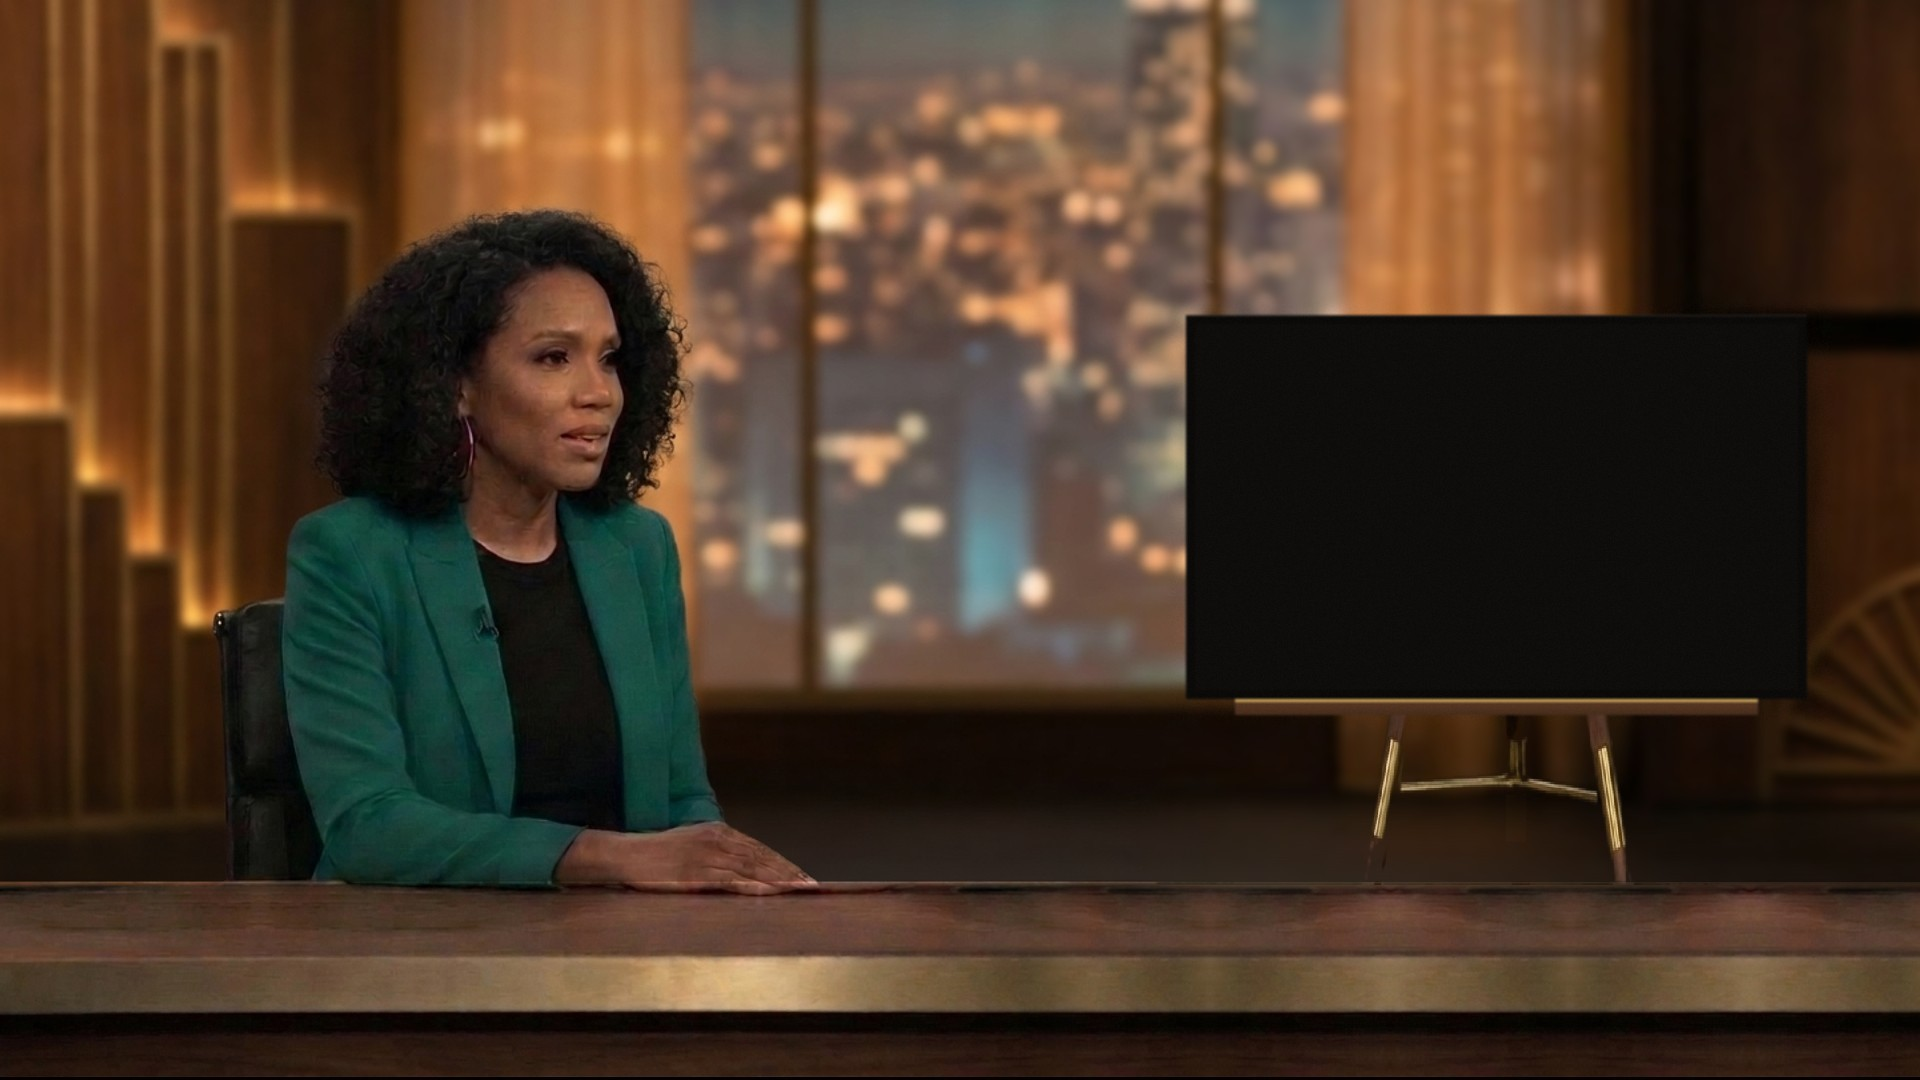
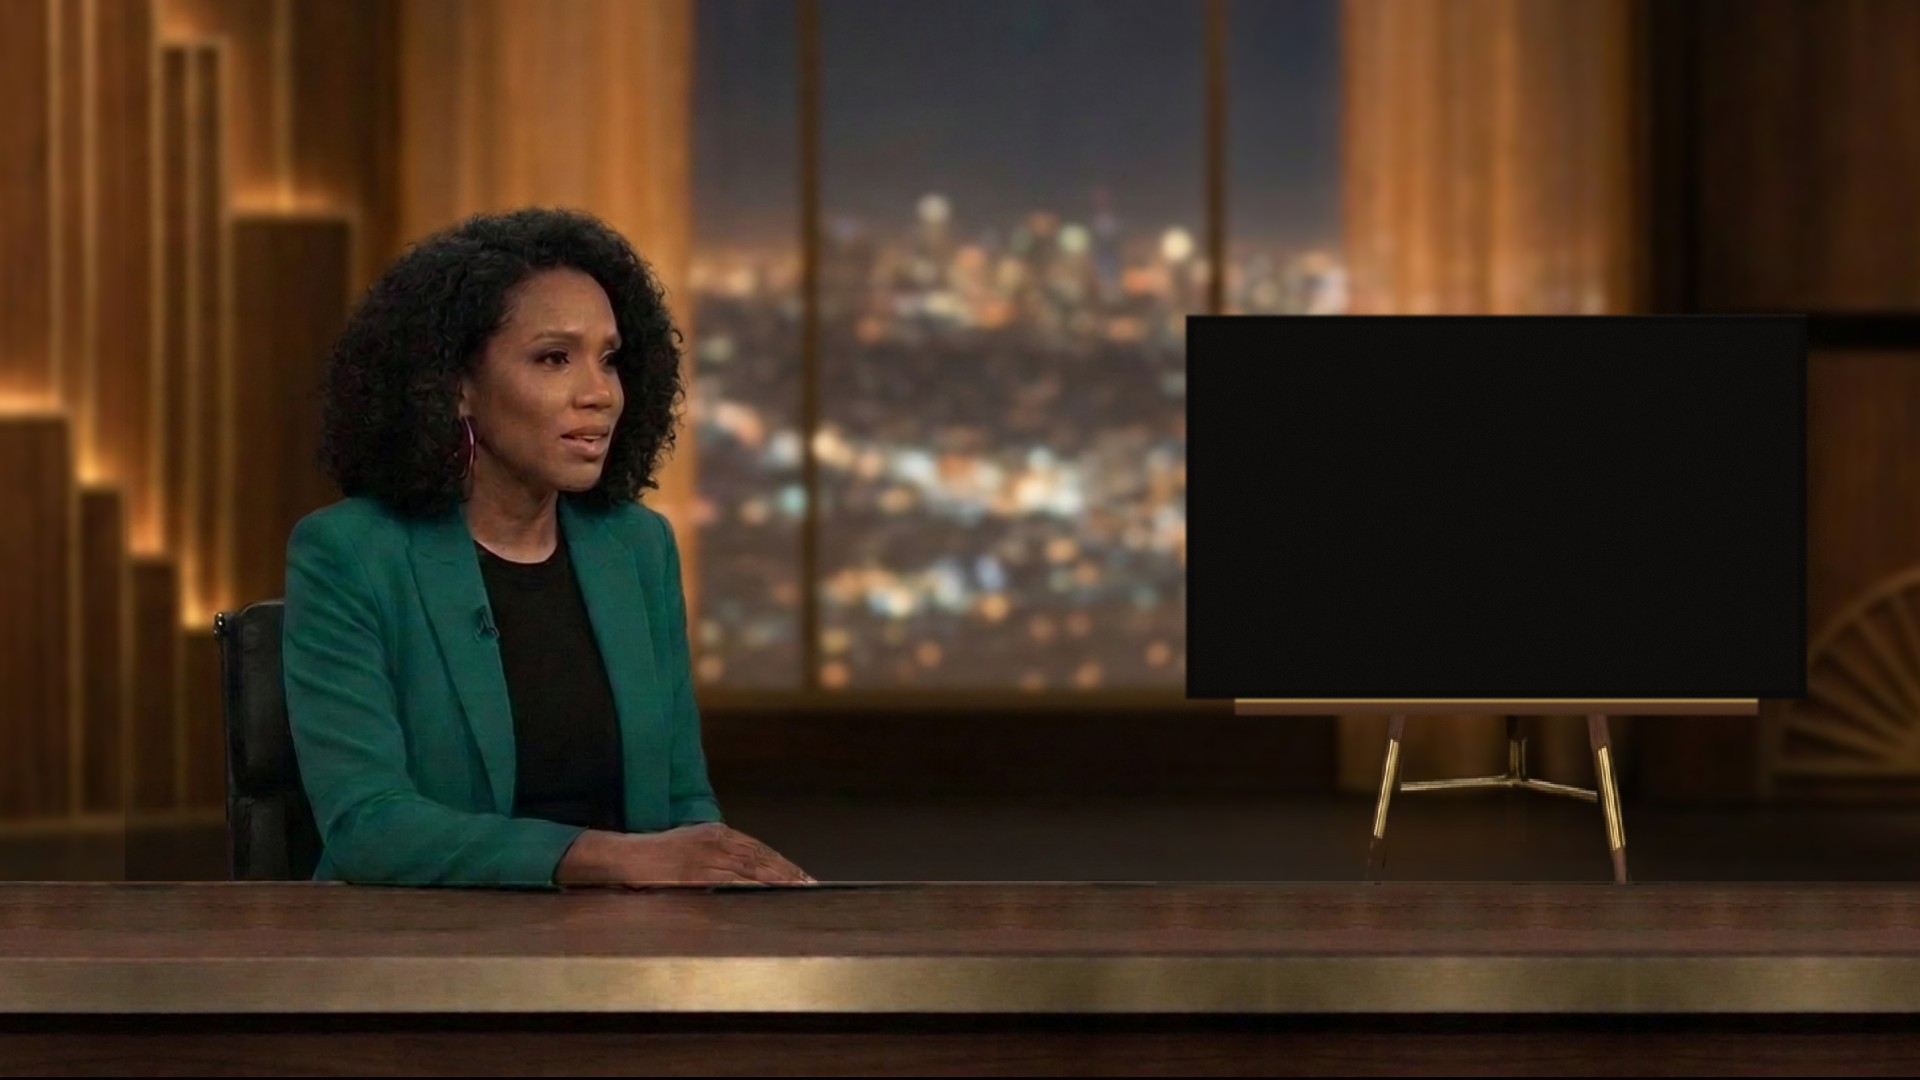
feat: Jada framed closer and camera left, with a high-rise window behind her
Her portrait is zoomed in and she sits on the left third of the frame. The
window behind her now shows only a distant skyline far below, with no nearby
lit buildings or street for the renderer to fill with people.

Claude-Session: https://claude.ai/code/session_01GSFhiV3Ep34znZMVb7cbqT

diff --git a/apps/tv-show-live/page/gilded.css b/apps/tv-show-live/page/gilded.css
@@ -229,7 +229,7 @@ button { font: inherit; }
 .gr-set { position: absolute; inset: 0; transform-origin: 50% 50%; }
 /* Cuts, not zooms: a studio camera is either on its shot or not. */
 /* Jada from the chest up; the TV's edge stays in frame (a video off screen is not sent). */
-.gr-program.is-host .gr-set { transform: scale(1.5); transform-origin: 4% 35%; }
+.gr-program.is-host .gr-set { transform: scale(1.5); transform-origin: 8% 35%; }
 .gr-program.is-tv .gr-set { transform: scale(1.9); transform-origin: 96.95% 52.22%; }
 .gr-wall { position: absolute; inset: 0; width: 100%; height: 100%; object-fit: fill; }
 
@@ -239,7 +239,7 @@ button { font: inherit; }
    into empty wall and window. */
 /* Her portrait is framed wide, so her right hand never leaves the render: laid over the set at 1/0.78 of
    that, she is back to her old size and place, the frame cropping its top and bottom. */
-.gr-host { position: absolute; left: -7.3%; top: -27.5%; width: 71.05%; height: 127.25%; z-index: 2;
+.gr-host { position: absolute; left: 6.51%; top: -2.04%; width: 56.82%; height: 101.76%; z-index: 2;
   /* Gone before its last 6%: the renderer draws a dark rim there, which showed as a dark band. */
   -webkit-mask-image: linear-gradient(to right, #000 80%, transparent 94%); mask-image: linear-gradient(to right, #000 80%, transparent 94%); }
 /* The desk's front, from just below her hands: cut from the set, laid over her render. */
@@ -283,7 +283,7 @@ button { font: inherit; }
 .gr-program.is-trailer .gr-host { left: auto; top: auto; right: 2%; bottom: 10.5%; width: 14%; height: auto; aspect-ratio: 1; z-index: 16;
   -webkit-mask-image: none; mask-image: none; opacity: 1; overflow: hidden; border-radius: .7cqw; background: #0c0a07;
   box-shadow: 0 .8cqw 2.4cqw rgba(0, 0, 0, .7), 0 0 0 .15cqw rgba(216, 177, 92, .7); }
-.gr-program.is-trailer .gr-host .ll-face { transform: scale(2.3); transform-origin: 45.6% 53.3%; }
+.gr-program.is-trailer .gr-host .ll-face { transform: scale(1.85); transform-origin: 43% 40%; }
 .gr-program.is-trailer .gr-host::after { content: attr(data-label); position: absolute; left: 0; right: 0; bottom: 0; z-index: 2; padding: .25cqw .5cqw;
   font: 600 .7cqw/1.2 var(--nc-display); letter-spacing: .08em; text-transform: uppercase; color: var(--nc-ink); background: linear-gradient(0deg, rgba(10, 8, 5, .85), transparent); }
 
